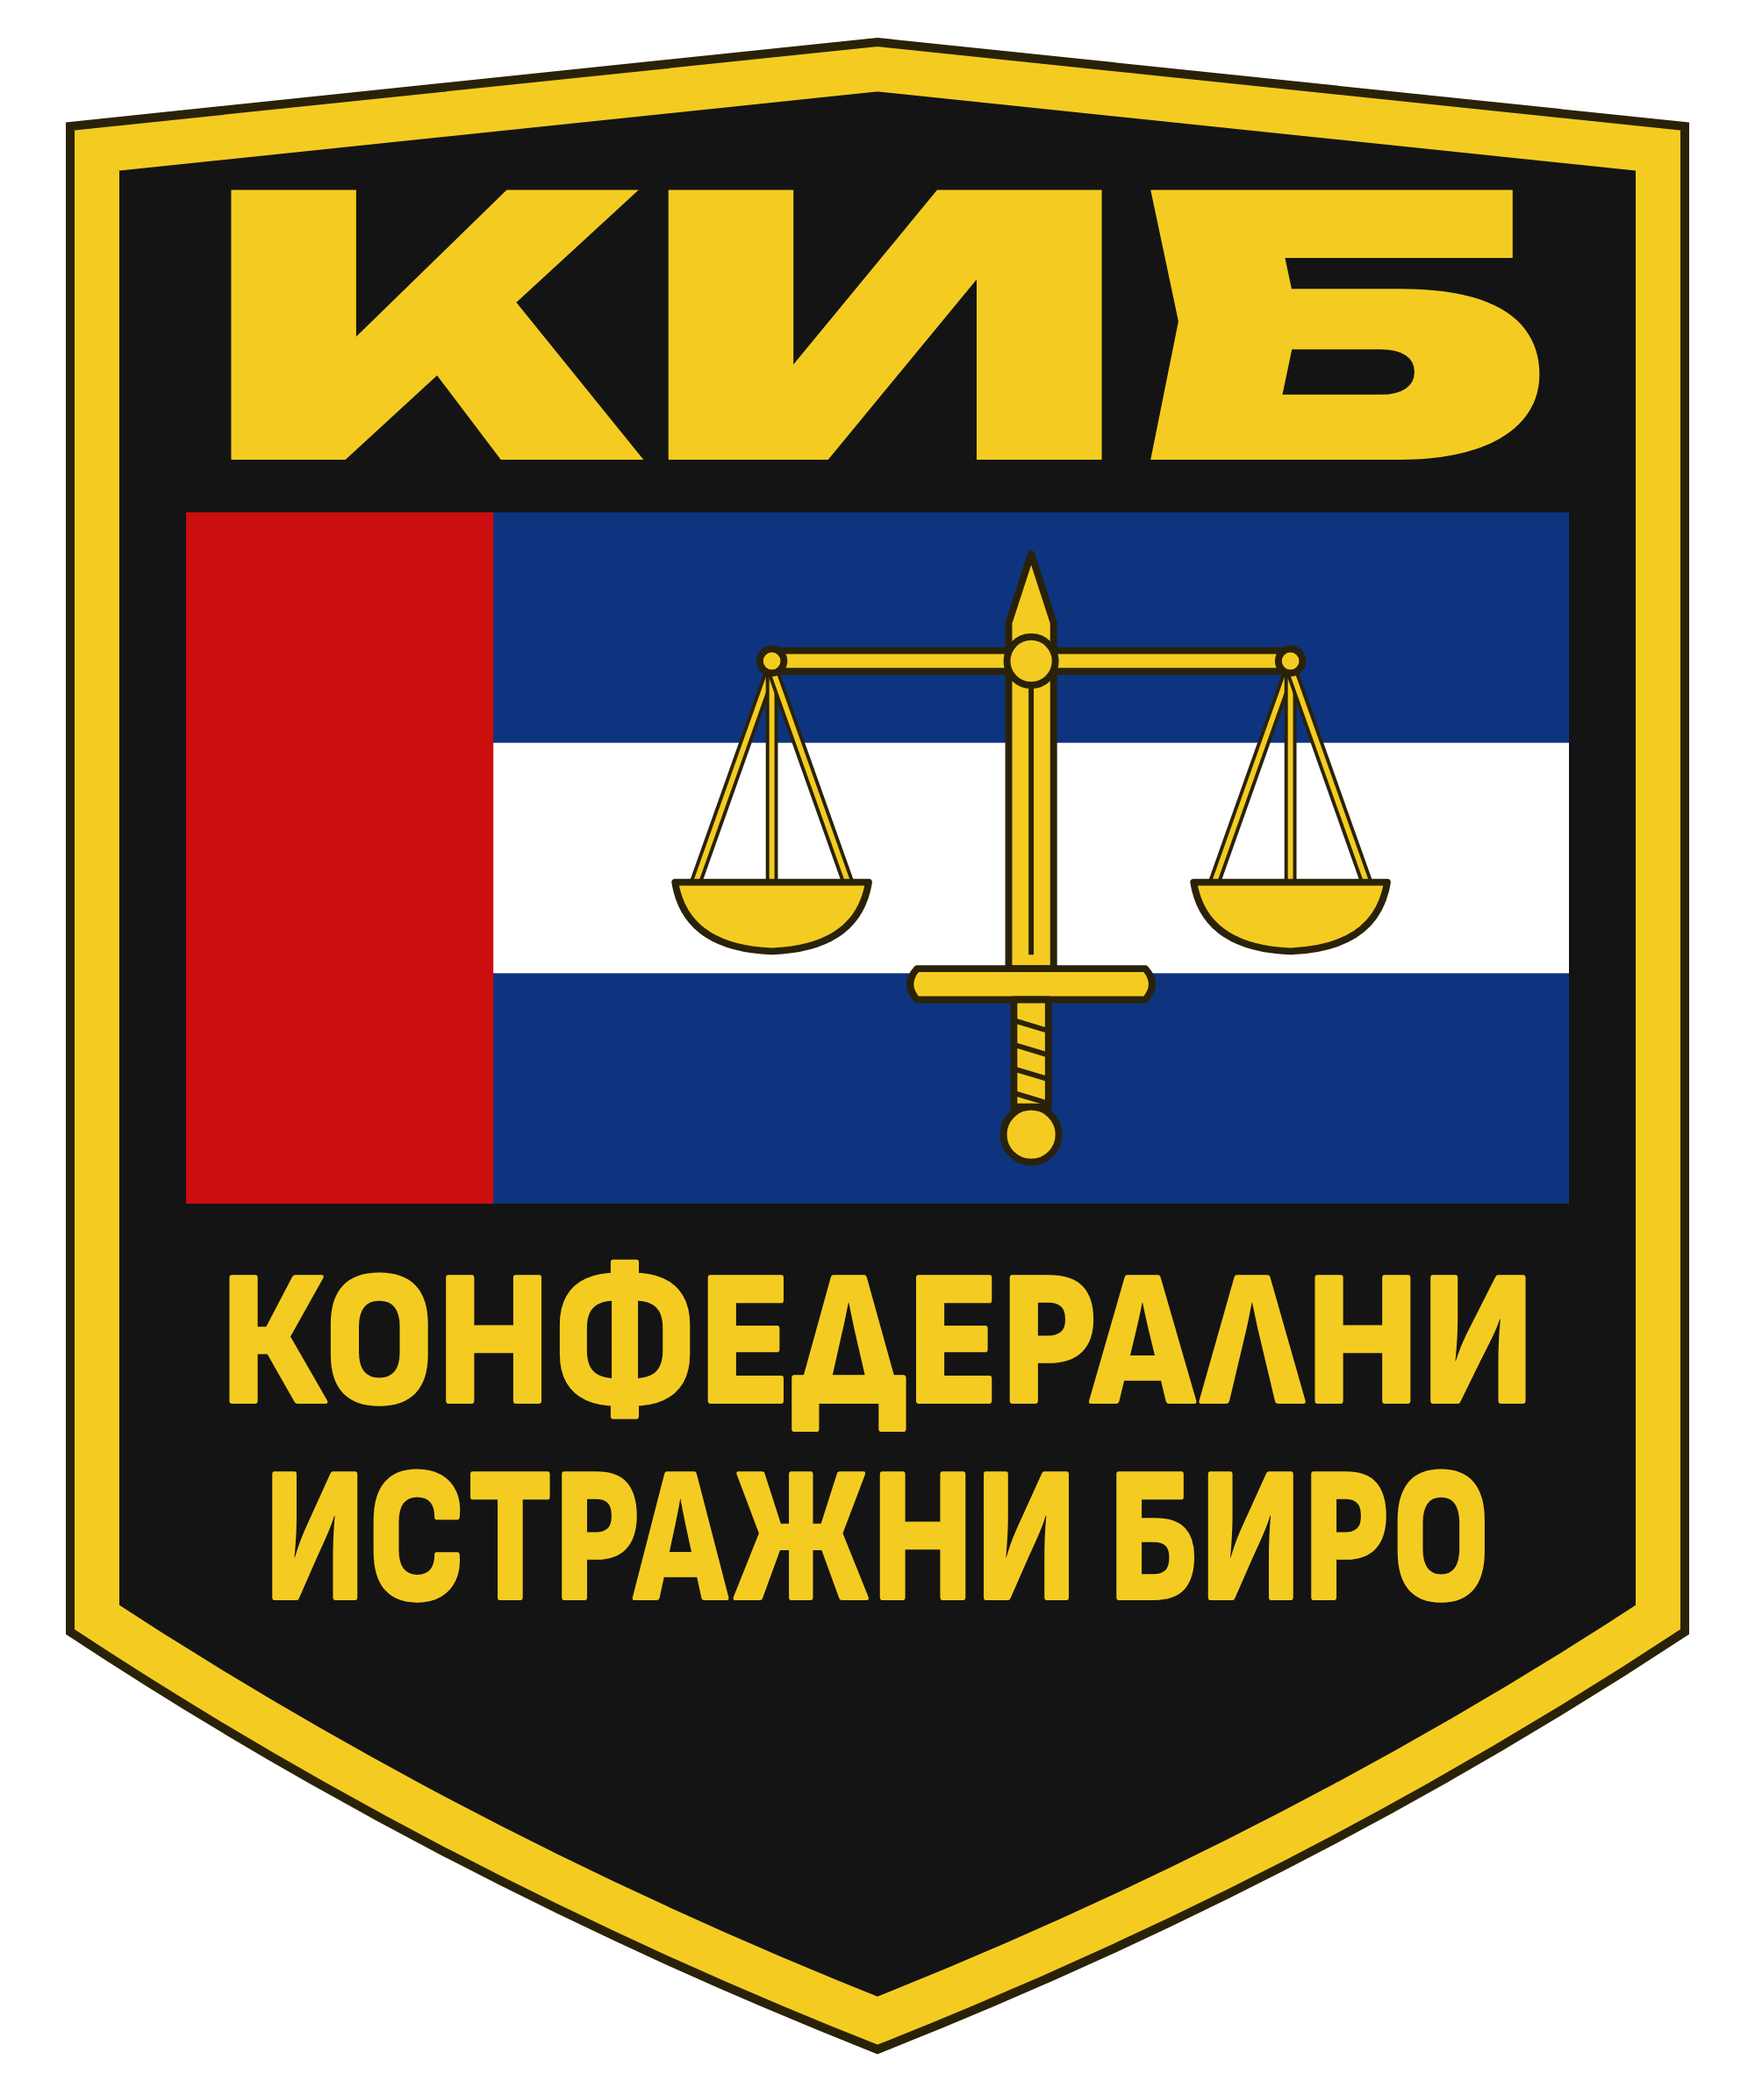
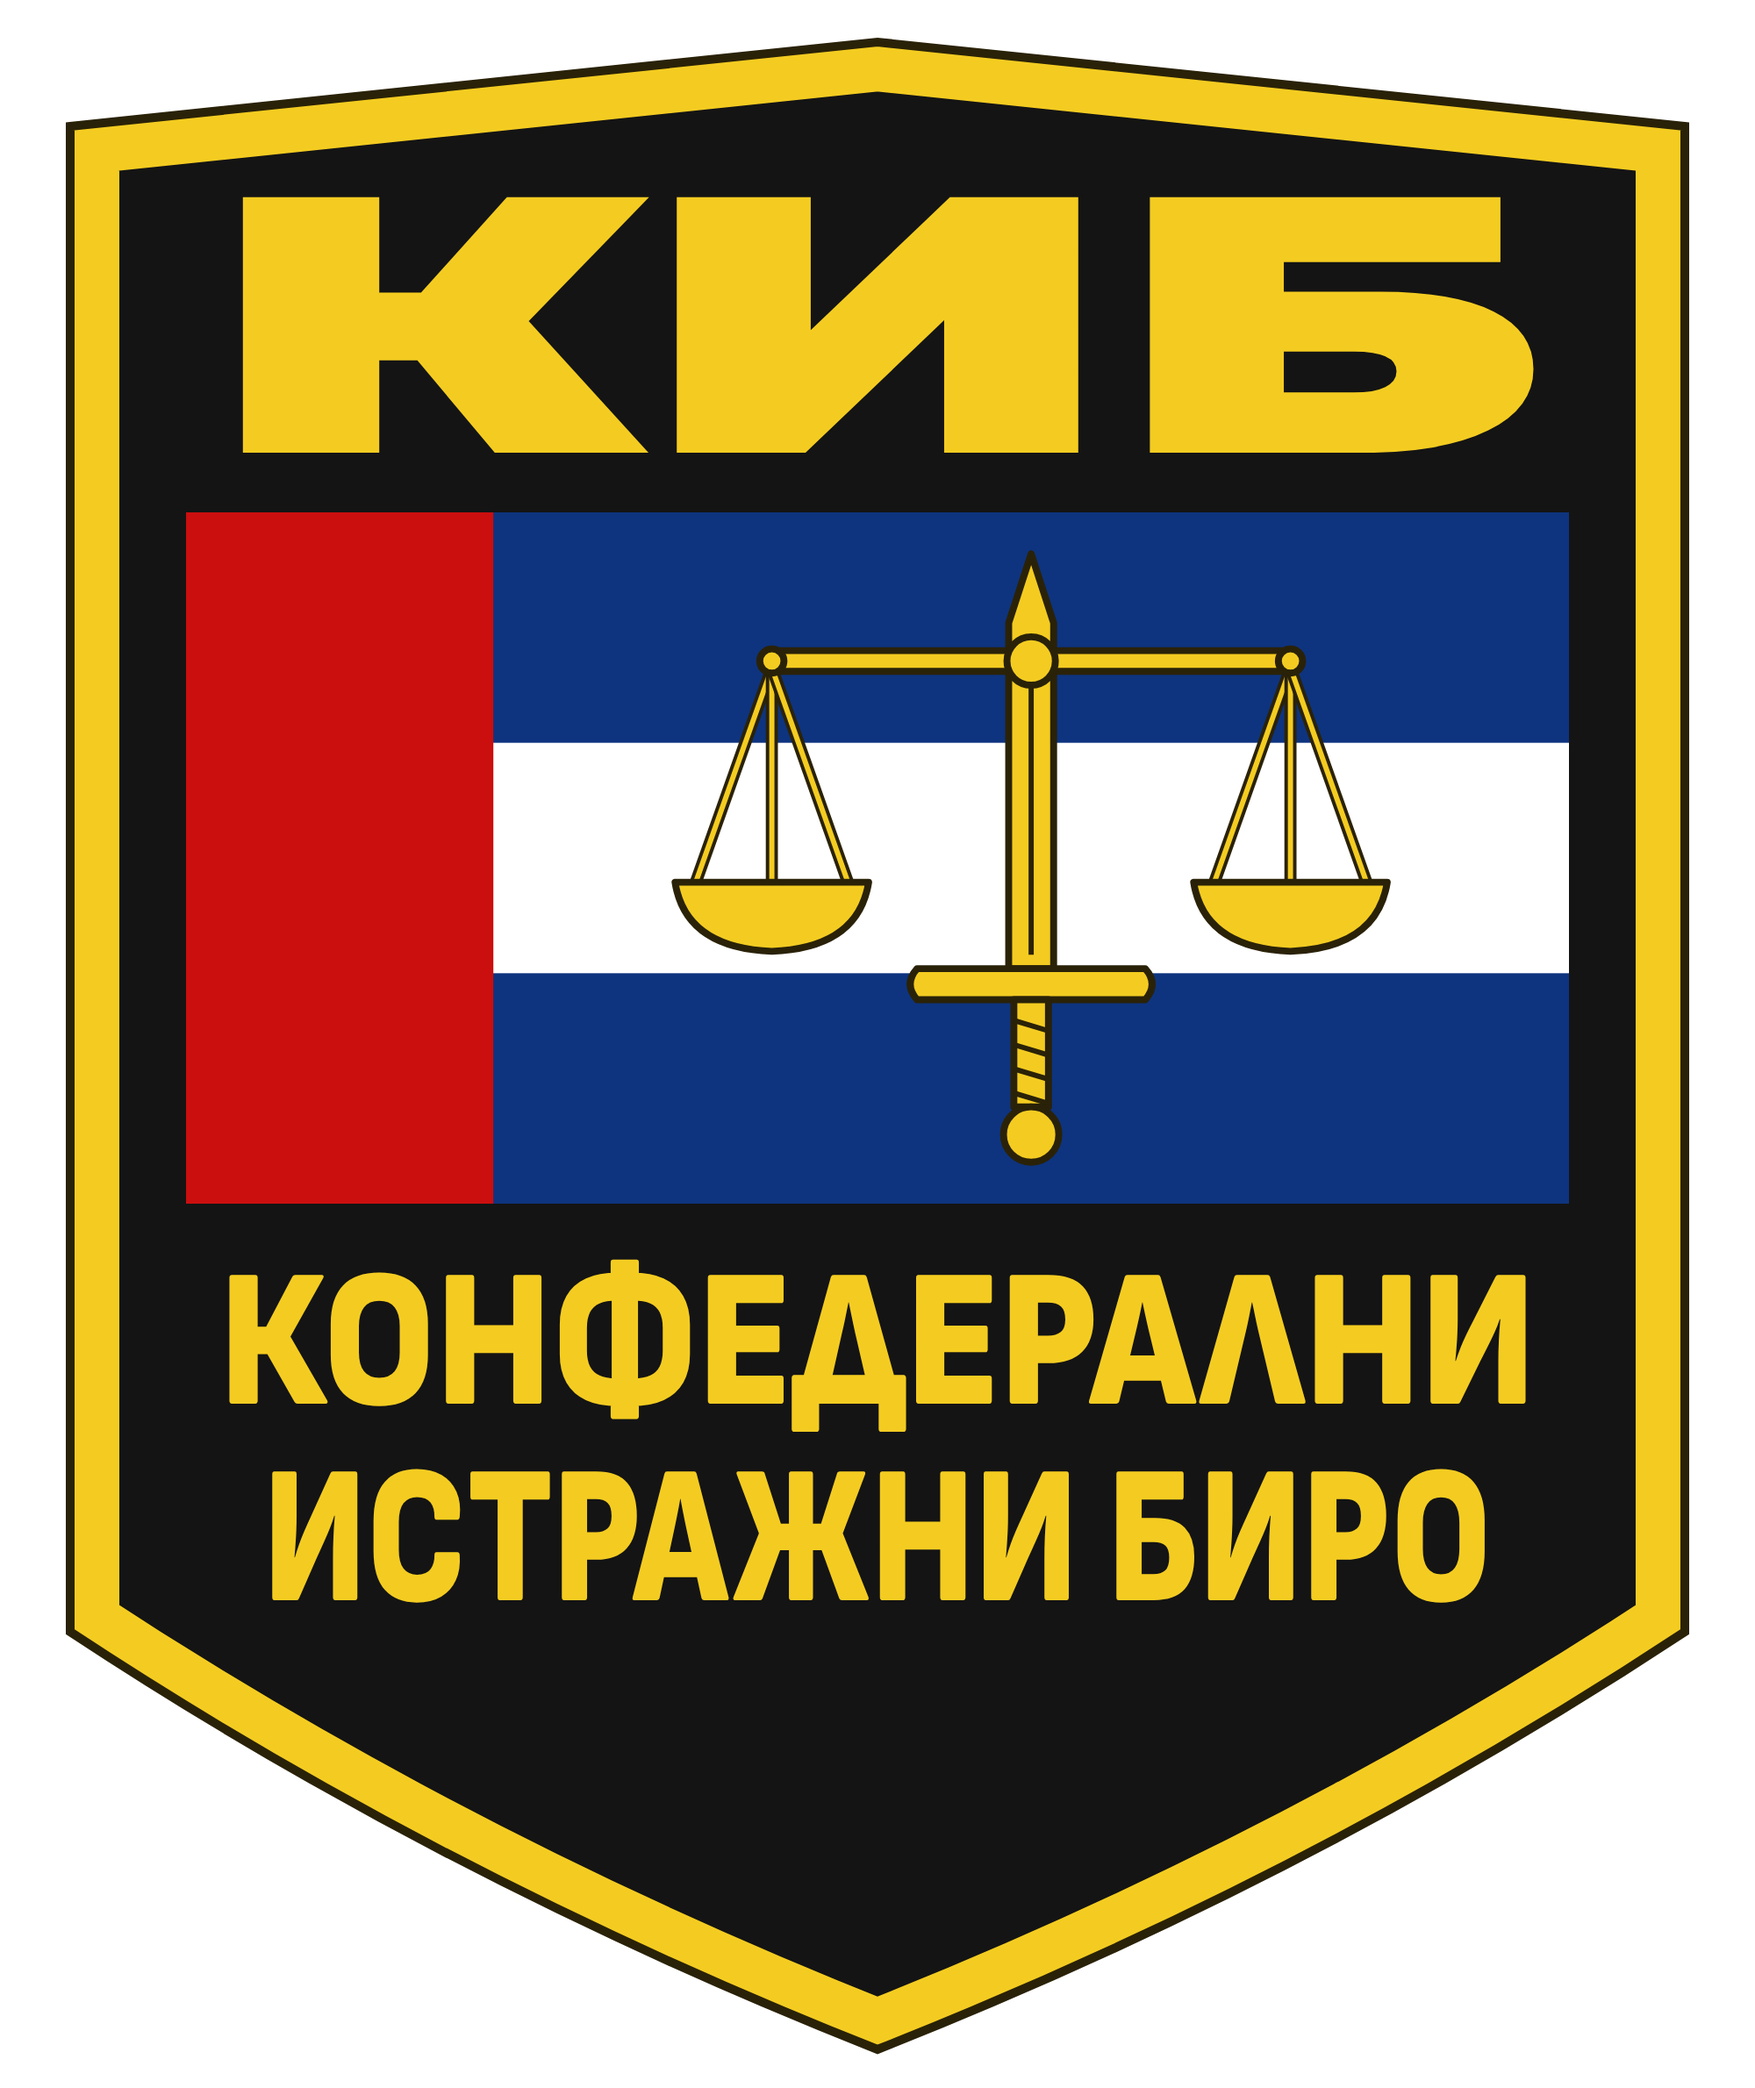
Écusson KIB : sigle en Montserrat Black (B régulier)
Claude-Session: https://claude.ai/code/session_01DQpxxYucBkL27VxzQqjjPt

diff --git a/docs/decisions/2026-11-06-istrazni-biro.md b/docs/decisions/2026-11-06-istrazni-biro.md
@@ -51,7 +51,8 @@ question « on dit istražni ured en bulgare ? ». Constitution portée en versi
     échantillonné sur le soleil), à la demande de l'utilisateur (« le jaune est pas le même
     que le jaune de la confédération »).
 - **Contenu** :
-  - sigle **KIB** en lettres très larges et grasses (Unbounded Black) ;
+  - sigle **KIB** en lettres très larges et grasses (Montserrat Black étirée ; le B
+    d'Unbounded, entaillé à gauche, a été écarté) ;
   - drapeau civil étiré sur presque toute la largeur, portant la balance et l'épée en jaune
     (le fléau repose sur une épée verticale, pointe en haut) ;
   - nom sur deux lignes en Sofia Sans Black.
